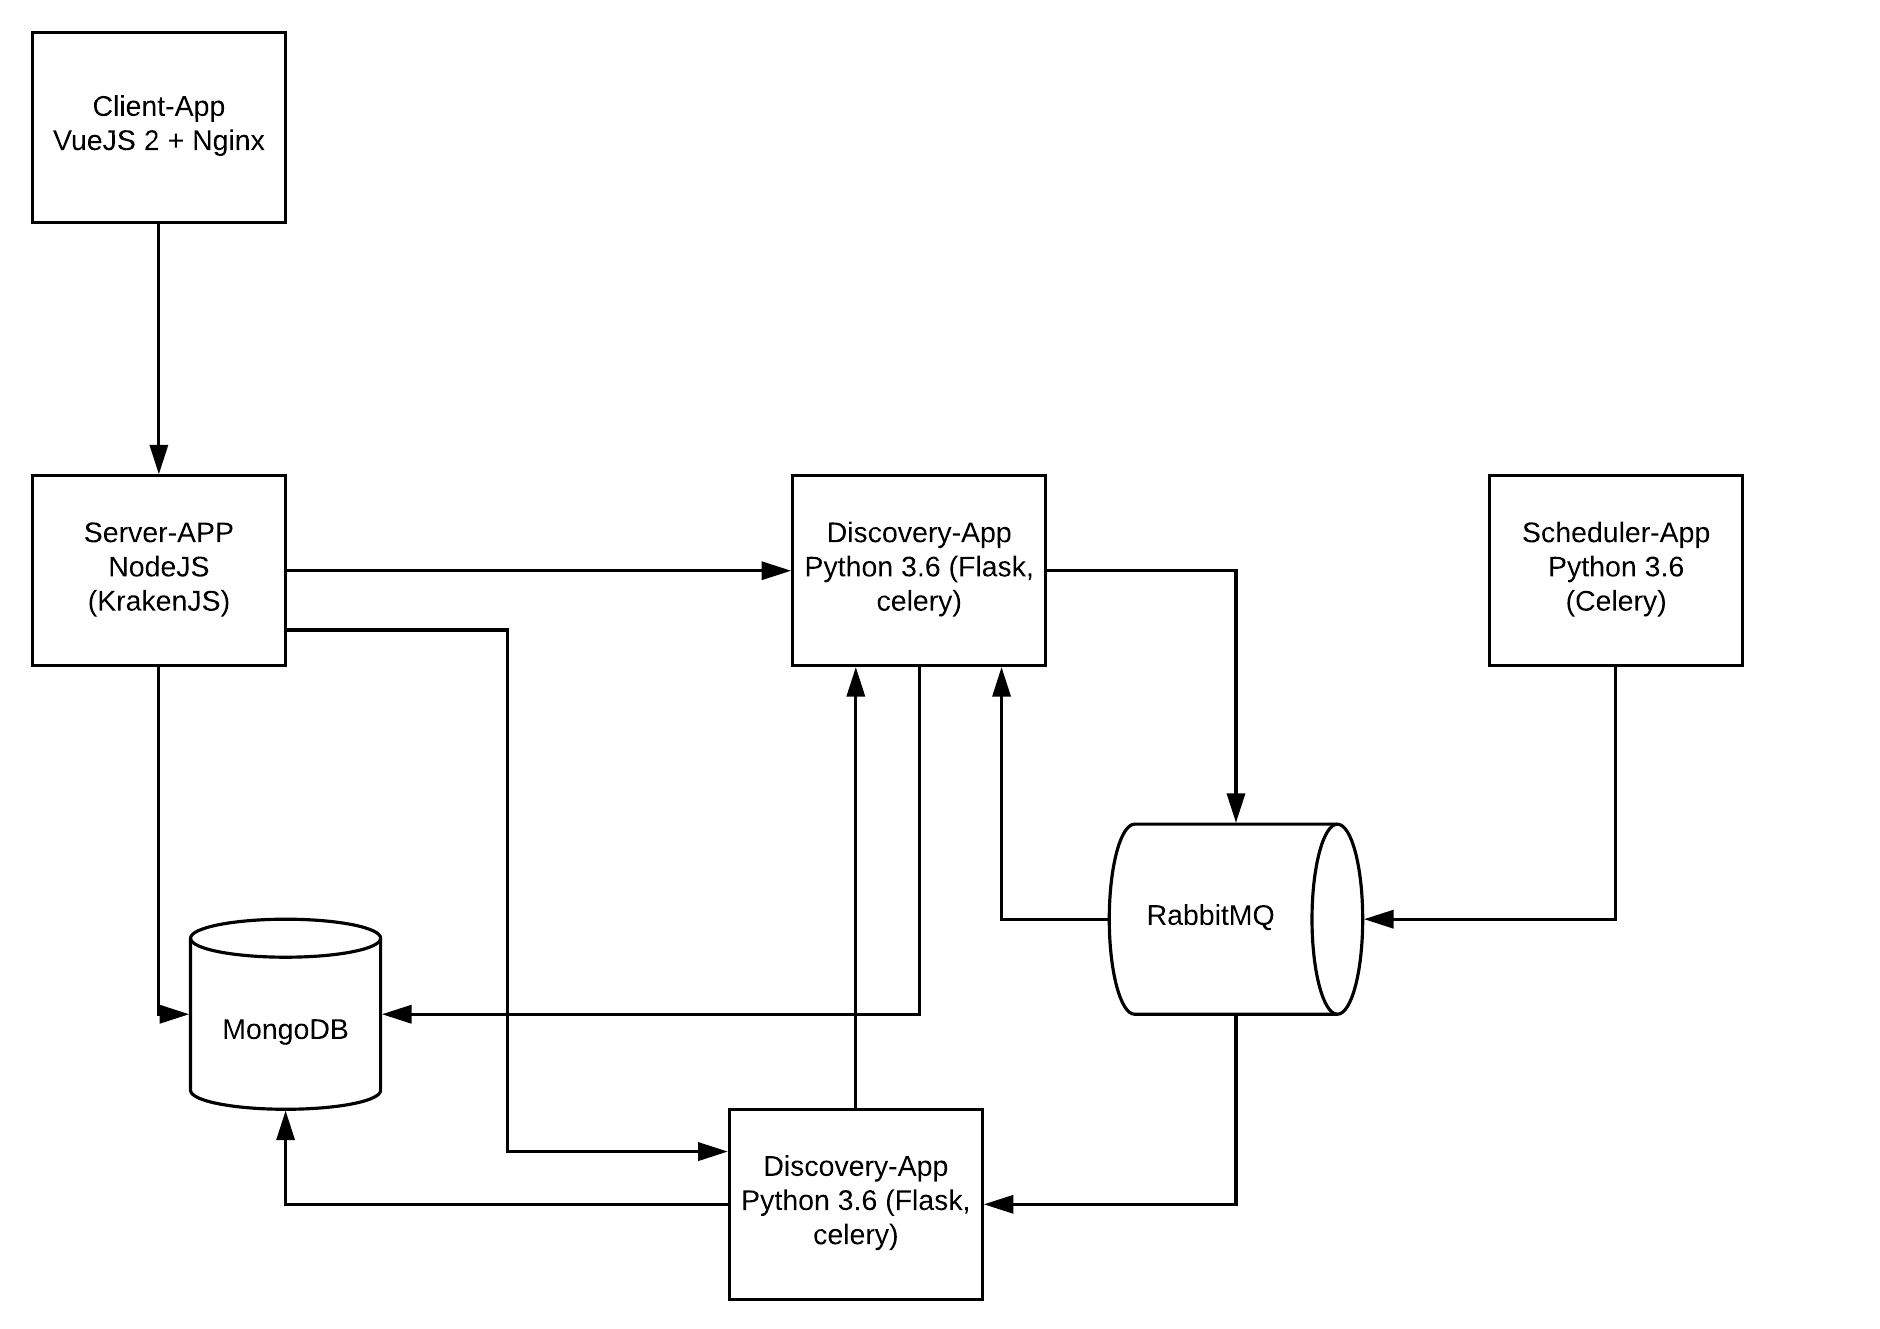
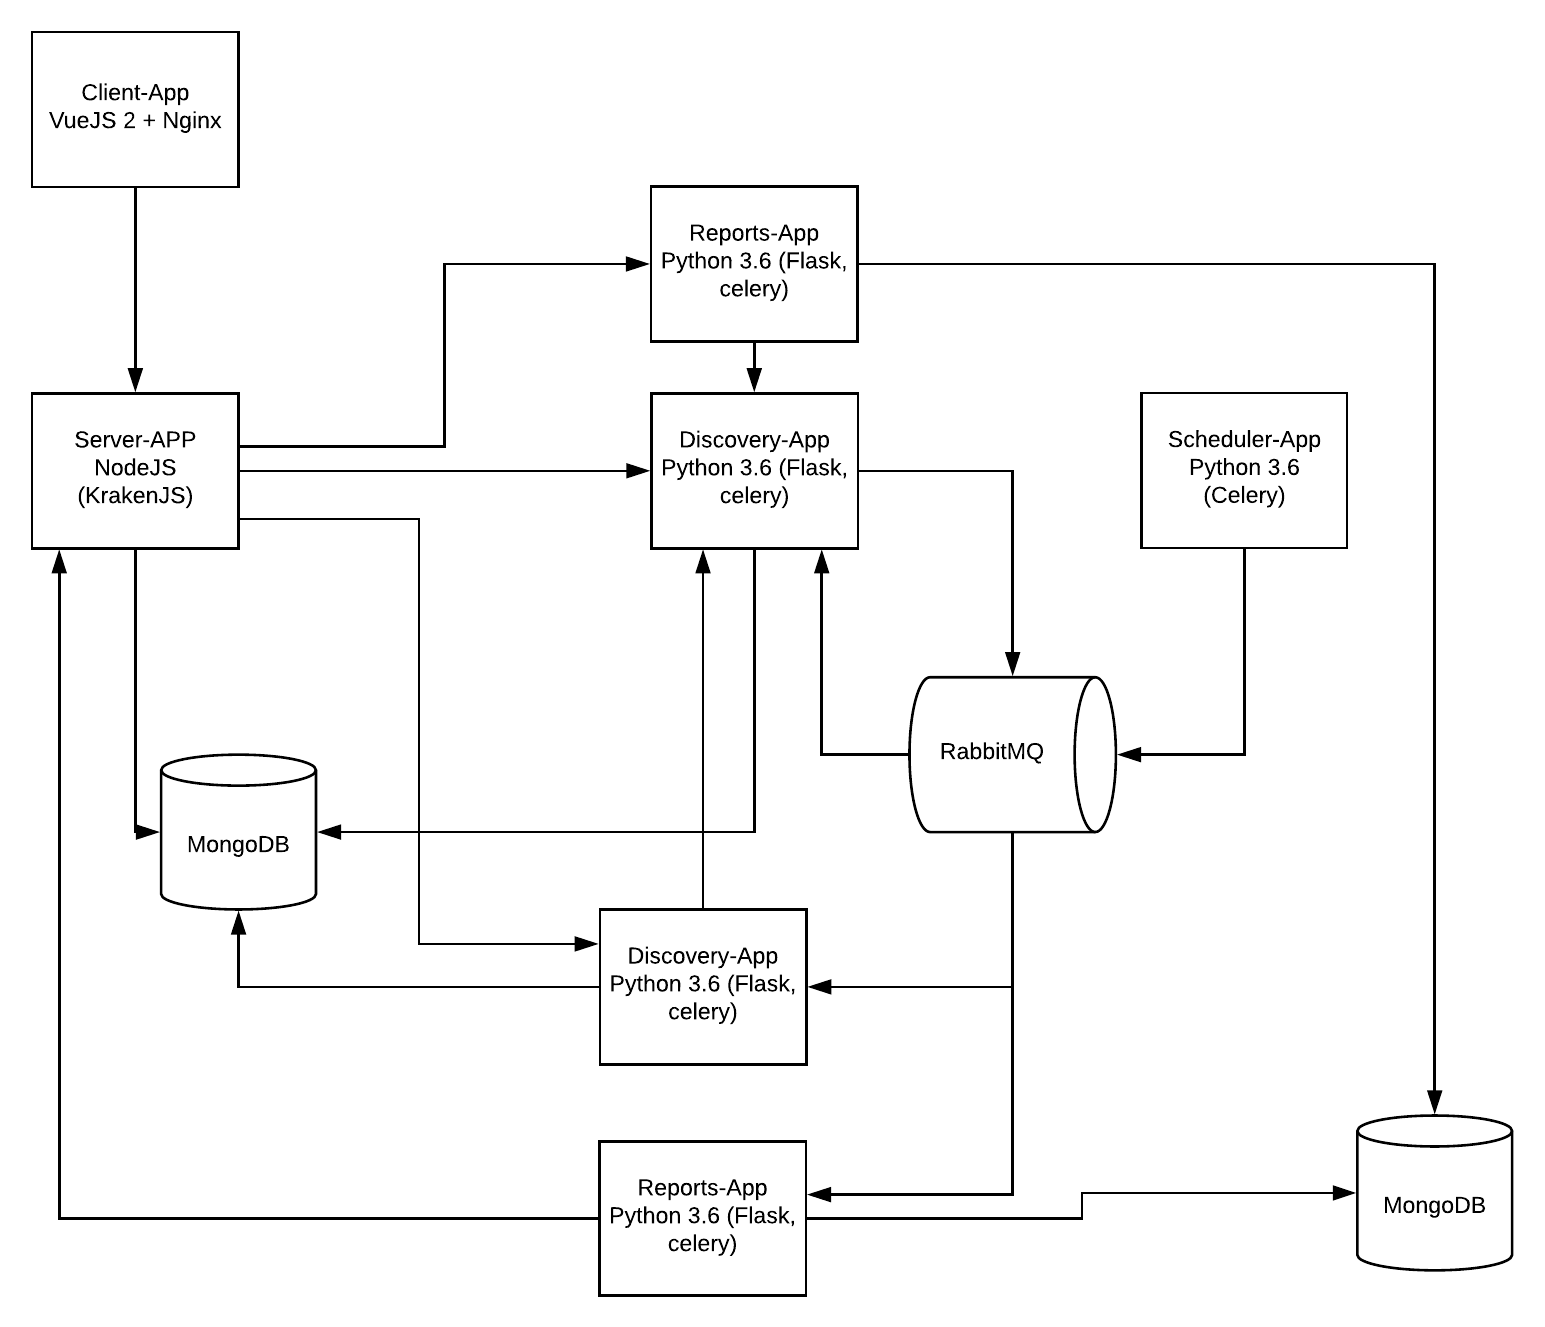
docs

diff --git a/docs/installing/architecture.rst b/docs/installing/architecture.rst
@@ -353,13 +353,13 @@ Download de repository
 ======================= ============================ =========================== 
 Env Variables                   Example                    Description         
 ======================= ============================ =========================== 
-MAESTRO_MONGO_URI       'localhost'                  Mongo Url conn
-MAESTRO_MONGO_DATABASE  'maestro-client'     
-MAESTRO_DISCOVERY_URL   'http://localhost'           Discovery API URL
+MAESTRO_MONGO_URI       localhost                    Mongo Url conn
+MAESTRO_MONGO_DATABASE  maestro-client       
+MAESTRO_DISCOVERY_URL   http://localhost             Discovery API URL
 MAESTRO_DISCOVERY_PORT  5000                         Discovery API Port
-MAESTRO_SECRETJWT       'xxxx'                       Same that Server App
+MAESTRO_SECRETJWT       xxxx                         Same that Server App
 MAESTRO_SCAN_QTD        200  
-CELERY_BROKER_URL       amqp://rabbitmq:5672"        RabiitMQ connection
+CELERY_BROKER_URL       amqp://rabbitmq:5672         RabbitMQ connection
 ======================= ============================ =========================== 
 
 ----------
@@ -422,9 +422,9 @@ Download de repository
 ======================= ============================ =========================== 
 Env Variables                   Example                    Description         
 ======================= ============================ =========================== 
-MAESTRO_DISCOVERY_URL   'http://localhost'           Discovery API URL
+MAESTRO_DISCOVERY_URL   http://localhost             Discovery API URL
 MAESTRO_DISCOVERY_PORT  5000                         Discovery API Port
-CELERY_BROKER_URL       amqp://rabbitmq:5672"        RabiitMQ connection
+CELERY_BROKER_URL       amqp://rabbitmq:5672         RabbitMQ connection
 ======================= ============================ =========================== 
 
 ----------
@@ -448,22 +448,20 @@ Reports app, generate reports
     version: '2'
 
     services:
-    discovery:
-        image: maestroserver/discovery-maestro
-        ports:
-        - "5000:5000"
-        environment:
-        - "CELERY_BROKER_URL=amqp://rabbitmq:5672"
-        - "MAESTRO_PORT=5000"
-        - "MAESTRO_MONGO_URI=mongodb"
-        - "MAESTRO_MONGO_DATABASE=maestro-client"
+        reports:
+            image: maestroserver/reports-maestro
+            environment:
+            - "CELERY_BROKER_URL=amqp://rabbitmq:5672"
+            - "MAESTRO_URL=http://localhost:5005"
+            - "MAESTRO_MONGO_URI=mongodb"
+            - "MAESTRO_MONGO_DATABASE=maestro-reports"
 
-    celery:
-        image: maestroserver/discovery-maestro-celery
-        environment:
-        - "MAESTRO_DISCOVERY_URL=http://discovery"
-        - "CELERY_BROKER_URL=amqp://rabbitmq:5672"
-        - "MAESTRO_PORT=5000"
+        reports_worker:
+            image: maestroserver/reports-maestro-celery
+            environment:
+            - "MAESTRO_URL=http://reports:5005"
+            - "MAESTRO_DISCOVERY_URL=http://discovery:5000"
+            - "CELERY_BROKER_URL=amqp://rabbitmq:5672"
 
 ----------
 
@@ -485,11 +483,11 @@ Download de repository
 
 .. code-block:: bash
 
-    python -m flask run.py
+    python -m flask run.py --port 5005 
 
     or
 
-    FLASK_APP=run.py FLASK_DEBUG=1 flask run
+    FLASK_APP=run.py FLASK_DEBUG=1 flask run --port 5005 
 
     or 
 
@@ -526,17 +524,16 @@ Download de repository
 
 **Env variables**
 
-======================= ============================ =========================== 
+======================= ============================ ===========================================
 Env Variables                   Example                    Description         
-======================= ============================ =========================== 
-MAESTRO_MONGO_URI       'localhost'                  Mongo Url conn
-MAESTRO_MONGO_DATABASE  'maestro-client'     
-MAESTRO_DISCOVERY_URL   'http://localhost'           Discovery API URL
-MAESTRO_DISCOVERY_PORT  5000                         Discovery API Port
-MAESTRO_SECRETJWT       'xxxx'                       Same that Server App
-MAESTRO_SCAN_QTD        200  
-CELERY_BROKER_URL       amqp://rabbitmq:5672"        RabiitMQ connection
-======================= ============================ ===========================
+======================= ============================ ===========================================
+MAESTRO_MONGO_URI       localhost                    Mongo Url conn
+MAESTRO_MONGO_DATABASE  maestro-reports              Db name, its differente of servers-app     
+MAESTRO_DISCOVERY_URL   http://localhost:5000        Discovery API URL
+MAESTRO_URL             http://localhost:5005        Report api
+MAESTRO_INSERT_QTD      200                          Throughput insert in reports collection
+CELERY_BROKER_URL       amqp://rabbitmq:5672         RabbitMQ connection
+======================= ============================ ===========================================
 
 ----------
 

diff --git a/docs/quickstart.rst b/docs/quickstart.rst
@@ -7,15 +7,15 @@ Overview
 Maestro is split into 6 pieces:
 
 +-----------------+-------------------------------------------------+--------------------+
-| Client App      | FrontEnd client                                 | Vue2 + Boostrap 3  | 
+| Client App      | FrontEnd client                                 | Vue2 + Bootstrap 3 | 
 +-----------------+-------------------------------------------------+--------------------+
 | Server App      | Primary API, authetication, crud and manager    | NodeJs 6.10 Kraken |
 +-----------------+-------------------------------------------------+--------------------+
-| Discovery App   | Auto discovery and crawler                      | Python 3.5, flask  | 
+| Discovery App   | Auto discovery and crawler                      | Python 3.6, flask  | 
 +-----------------+-------------------------------------------------+--------------------+
-| Scheduler App   | Rabbits worker for Scheduler discovery          | Python 3.5, celery | 
+| Scheduler App   | Rabbits worker for Scheduler discovery          | Python 3.6, celery | 
 +-----------------+-------------------------------------------------+--------------------+
-| Reports App     | Reports generetor                               | Python 3.5, flask  | 
+| Reports App     | Reports generetor                               | Python 3.6, flask  | 
 +-----------------+-------------------------------------------------+--------------------+
 | Playbook Server | Playbook server, task executer                  | Python, shell      | 
 +-----------------+-------------------------------------------------+--------------------+
@@ -29,6 +29,10 @@ We recommend to use docker, if you like to see demo version, copy and execute do
     PS: Docker will be created and manager all networks and communication between services.
     
     PS: The containers its prepared for run in production ready, but its recommend to create a separate database environment and export the volume (remember all storage inside of docker its temporary)
+
+.. Note::
+
+    :download:`docker-compose file <_static/files/docker-compose.yml>`
 
 .. code-block:: yaml
 
@@ -69,6 +73,21 @@ We recommend to use docker, if you like to see demo version, copy and execute do
         - "CELERY_BROKER_URL=amqp://rabbitmq:5672"
         - "MAESTRO_PORT=5000"
 
+  reports:
+    image: maestroserver/reports-maestro
+    environment:
+     - "CELERY_BROKER_URL=amqp://rabbitmq:5672"
+     - "MAESTRO_URL=http://localhost:5005"
+     - "MAESTRO_MONGO_URI=mongodb"
+     - "MAESTRO_MONGO_DATABASE=maestro-reports"
+
+  reports_worker:
+    image: maestroserver/reports-maestro-celery
+    environment:
+     - "MAESTRO_URL=http://reports:5005"
+     - "MAESTRO_DISCOVERY_URL=http://discovery:5000"
+     - "CELERY_BROKER_URL=amqp://rabbitmq:5672"
+
     scheduler:
         image: maestroserver/scheduler-maestro
         environment:
@@ -107,6 +126,7 @@ Vagrant
 We have Vagrant box, its good for visualization (demo) or the best way to create a development environment.
 
 .. Note::
+
     PS: ``All port its expose``, don't use vagrant in production environment.
 
 

diff --git a/docs/developer/architecture.rst b/docs/developer/architecture.rst
@@ -8,6 +8,42 @@ Services relation, each service comunite by `rest` (http) calls.
 
 .. image:: ../_static/screen/arch_1.png
 
+Client App
+----------
+
+The front end is written with:
+
+====================== ===========================================================================
+Vue2                   Main framework, using by react and manager views, routes and temaplates, 
+                       use vue-loader with webpack                                   
+Webpack2               bundler generate                                                                                                                       
+Bootue                 All micro components, like buttons, tables, forms and etc, 
+                       its 100% Bootstrap3 components built with Vue2, 100% standalone, no query.  
+Nginx                  Using for proxy reverse                                                                                                                
+Mocha / Chai / Sinon   Test, asserts and mock library.                                                                                                        
+====================== ===========================================================================
+
+----------
+
+**Vue2 Macro Architecture**
+
+.. image:: ../_static/screen/client_arch.png
+
+**Important topics**
+
+- Front end application is divided in:
+
+	- **src/pages:** templates and bussiness rules (domain layer)
+
+	- **resources:** factories, modals, and cache managers (infrastructure layer)
+
+----------
+
+A single folder structure components normally use:
+
+.. image:: ../_static/screen/client_component.png
+
+----------
 
 Server App
 ----------
@@ -95,3 +131,27 @@ Scheduler App
 
 Discovery using `Flask <http://flask.pocoo.org>`_,  and python >3.5, used Celery Beat feature to call tasks.
 
+----------
+
+Reports App
+-------------
+
+.. image:: ../_static/screen/microservice_arq.png
+
+Reports using `Flask <http://flask.pocoo.org>`_,  and python >3.6, used Celery Beat feature to call tasks, have strong dependences with discovery app and server app, reports use a standalone MongoDB (only reports app see this db).
+
+.. image:: ../_static/screen/reports.png
+
+**Important topics**
+
+- Controller used factory task to organize the workflow report generetaion.
+
+- The process is divided in 4 parts
+
+    - **general/pivot:** prepare and select result (communicate with discovery api)
+
+    - **notification:** notificate any message (use discovery app to do)
+
+    - **upload:** control flow data (throttle inserets)
+
+    - **webhook:** insert/update data in mongodb or an y endpoint

diff --git a/docs/developer/qa.rst b/docs/developer/qa.rst
@@ -3,6 +3,10 @@ Quality Assurance
 
 We use some tools to mensure quality.
 
+.. Note::
+
+      `Travis with all projects <http://https://travis-ci.org/maestro-server>`_
+
 Server App
 ----------
 
